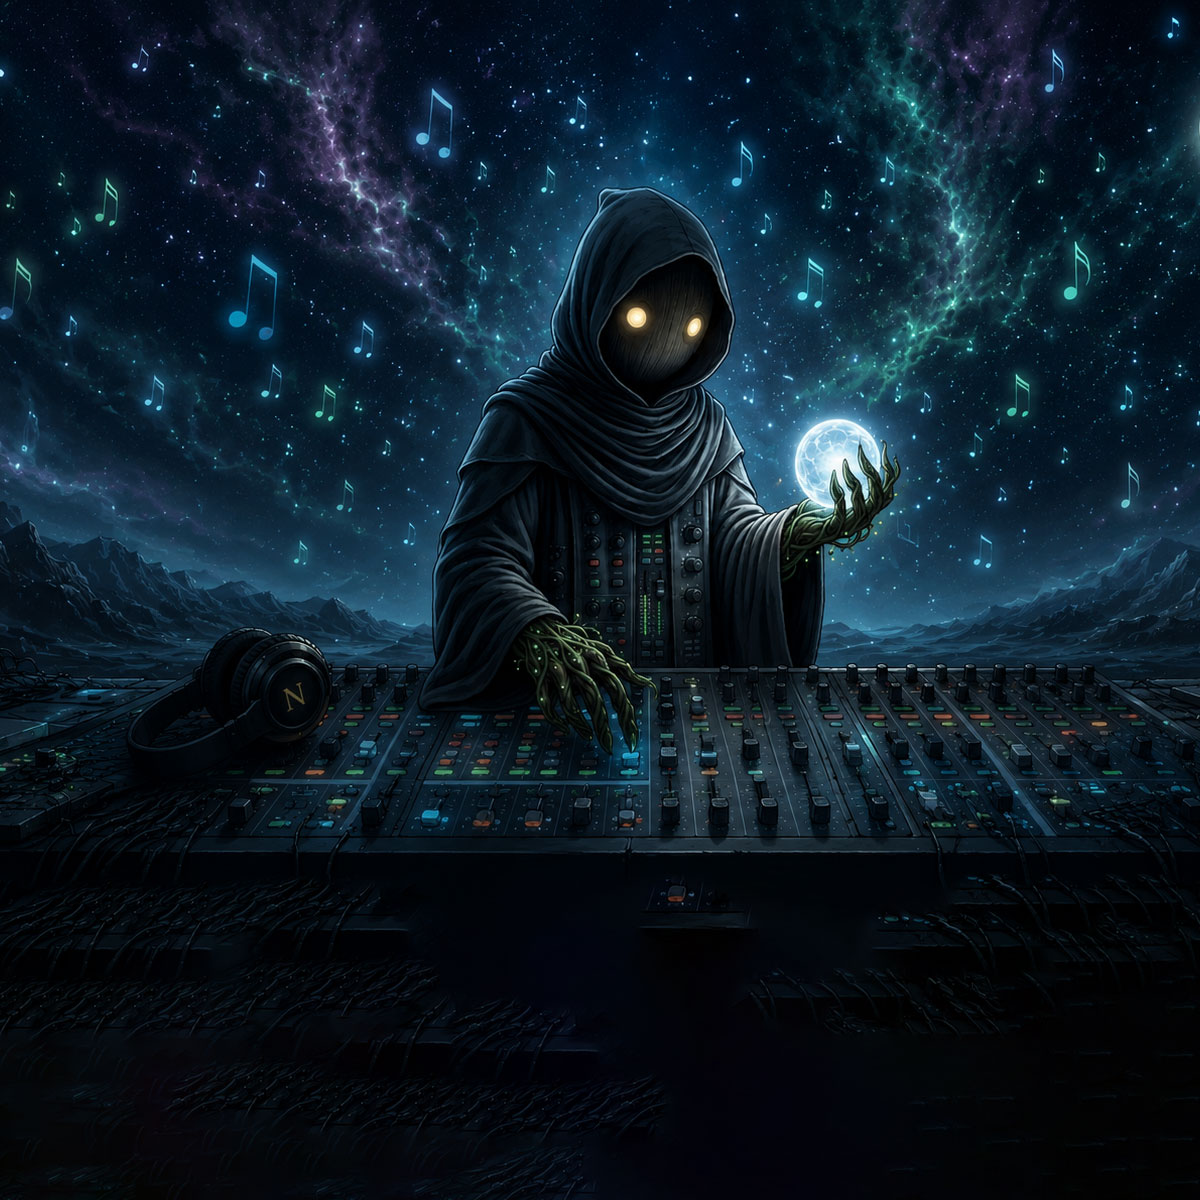
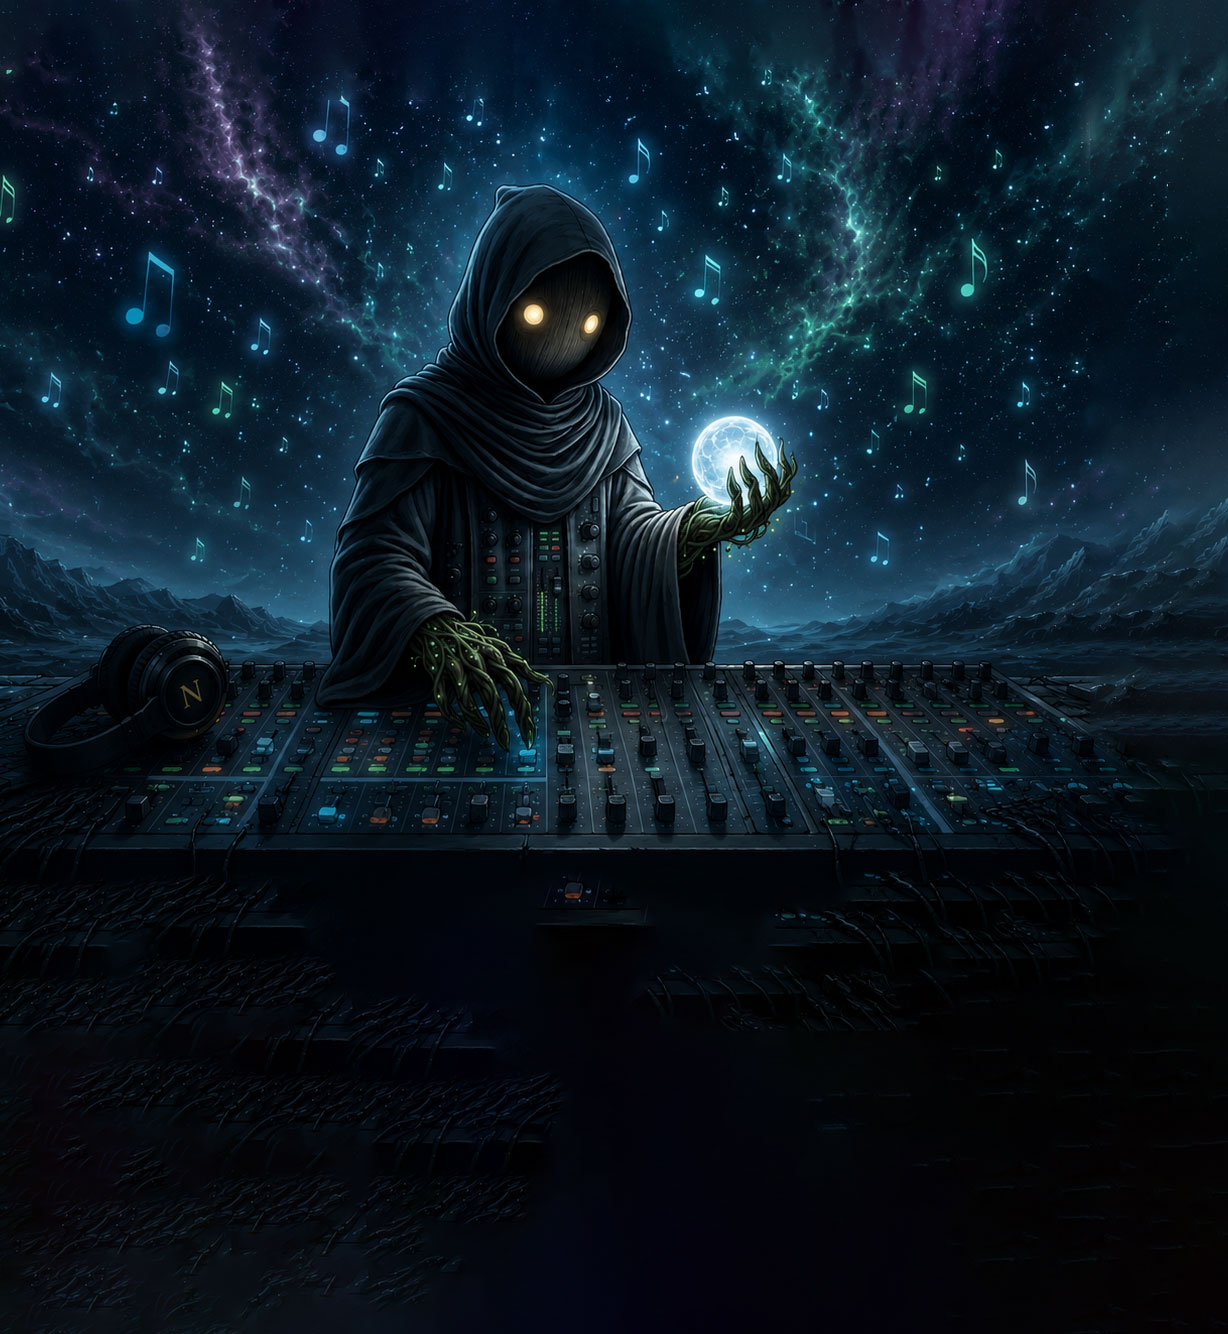
1

diff --git a/shared/css/style.css b/shared/css/style.css
@@ -101,14 +101,35 @@ a {
 }
 
 .hero {
+    position: relative;
     display: grid;
     min-height: 430px;
     align-items: end;
+    overflow: hidden;
     padding: 56px;
     border: 1px solid var(--line);
-    background:
-        linear-gradient(90deg, rgba(16, 20, 18, 0.94), rgba(16, 20, 18, 0.42)),
-        url("/shared/images/main.jpg?v=2026070602") center/cover;
+    background: var(--panel-soft);
+}
+
+.hero::after {
+    position: absolute;
+    inset: 0;
+    z-index: 1;
+    content: "";
+    background: linear-gradient(90deg, rgba(16, 20, 18, 0.94), rgba(16, 20, 18, 0.42));
+    pointer-events: none;
+}
+
+.hero__media {
+    position: absolute;
+    inset: 0;
+    z-index: 0;
+}
+
+.hero__media img {
+    width: 100%;
+    height: 100%;
+    object-fit: cover;
 }
 
 .hero--compact {
@@ -116,6 +137,8 @@ a {
 }
 
 .hero__content {
+    position: relative;
+    z-index: 2;
     max-width: 700px;
 }
 
@@ -383,9 +406,10 @@ img.gallery-image {
     .hero {
         min-height: 360px;
         padding: 32px 22px;
-        background:
-            linear-gradient(0deg, rgba(16, 20, 18, 0.88), rgba(16, 20, 18, 0.38)),
-            url("/shared/images/main-phone.jpg?v=[phone redacted]") center/cover;
+    }
+
+    .hero::after {
+        background: linear-gradient(0deg, rgba(16, 20, 18, 0.88), rgba(16, 20, 18, 0.38));
     }
 
     h1 {
@@ -451,9 +475,10 @@ img.gallery-image {
     .hero {
         min-height: calc(100svh - 156px);
         padding: 26px 18px;
-        background:
-            linear-gradient(0deg, rgba(16, 20, 18, 0.96), rgba(16, 20, 18, 0.48)),
-            url("/shared/images/main-phone.jpg?v=[phone redacted]") center/cover;
+    }
+
+    .hero::after {
+        background: linear-gradient(0deg, rgba(16, 20, 18, 0.96), rgba(16, 20, 18, 0.48));
     }
 
     .hero--compact {

diff --git a/index.html b/index.html
@@ -6,7 +6,7 @@
     <title>NeoAxis | Entertainment Production Company</title>
     <meta name="description" content="NeoAxis is an entertainment production company creating original works, music, stories, and visual IP.">
     <link rel="canonical" href="https://neoaxis.kr/">
-    <link rel="stylesheet" href="/shared/css/style.css?v=2026070602">
+    <link rel="stylesheet" href="/shared/css/style.css?v=2026070604">
 </head>
 <body>
     <div data-include="/shared/header.html"></div>
@@ -14,6 +14,10 @@
 
     <main class="site-main">
         <section class="hero">
+            <picture class="hero__media" aria-hidden="true">
+                <source media="(max-width: 900px)" srcset="/shared/images/main-phone.jpg?v=[phone redacted]">
+                <img src="/shared/images/main.jpg?v=2026070604" alt="">
+            </picture>
             <div class="hero__content">
                 <p class="eyebrow">Entertainment Production Company</p>
                 <h1>NeoAxis</h1>
@@ -41,13 +45,13 @@
                 <a class="poster-card" href="/works/admiral-yi/">
                     <span class="poster-card__poster">Admiral Yi</span>
                     <span class="poster-card__label">Historical</span>
-                    <h3>議곗꽑 ?댁닚??/h3>
+                    <h3>조선 이순신</h3>
                     <p>A historical work prepared as an independent NeoAxis IP.</p>
                 </a>
                 <a class="poster-card" href="/works/reshi/">
                     <span class="poster-card__poster">Reshi</span>
                     <span class="poster-card__label">Sci-Fi</span>
-                    <h3>誘몃옒?꾩궗 ?덉떆</h3>
+                    <h3>미래전사 레시</h3>
                     <p>A future-warrior project that can grow separately from other works.</p>
                 </a>
             </div>

diff --git a/works/admiral-yi/index.html b/works/admiral-yi/index.html
@@ -3,10 +3,10 @@
 <head>
     <meta charset="UTF-8">
     <meta name="viewport" content="width=device-width, initial-scale=1.0">
-    <title>議곗꽑 ?댁닚??| NeoAxis Works</title>
-    <meta name="description" content="議곗꽑 ?댁닚??is an original historical work from NeoAxis.">
+    <title>조선 이순신 | NeoAxis Works</title>
+    <meta name="description" content="조선 이순신 is an original historical work from NeoAxis.">
     <link rel="canonical" href="https://neoaxis.kr/works/admiral-yi/">
-    <link rel="stylesheet" href="/shared/css/style.css?v=2026070602">
+    <link rel="stylesheet" href="/shared/css/style.css?v=2026070604">
 </head>
 <body>
     <div data-include="/shared/header.html"></div>
@@ -15,7 +15,7 @@
     <main class="site-main">
         <header class="page-header">
             <p class="eyebrow">NeoAxis Work</p>
-            <h1>議곗꽑 ?댁닚??/h1>
+            <h1>조선 이순신</h1>
             <p>A historical IP prepared under the NeoAxis works structure.</p>
         </header>
     </main>

diff --git a/works/reshi/index.html b/works/reshi/index.html
@@ -3,10 +3,10 @@
 <head>
     <meta charset="UTF-8">
     <meta name="viewport" content="width=device-width, initial-scale=1.0">
-    <title>誘몃옒?꾩궗 ?덉떆 | NeoAxis Works</title>
-    <meta name="description" content="誘몃옒?꾩궗 ?덉떆 is an original science fiction work from NeoAxis.">
+    <title>미래전사 레시 | NeoAxis Works</title>
+    <meta name="description" content="미래전사 레시 is an original science fiction work from NeoAxis.">
     <link rel="canonical" href="https://neoaxis.kr/works/reshi/">
-    <link rel="stylesheet" href="/shared/css/style.css?v=2026070602">
+    <link rel="stylesheet" href="/shared/css/style.css?v=2026070604">
 </head>
 <body>
     <div data-include="/shared/header.html"></div>
@@ -15,7 +15,7 @@
     <main class="site-main">
         <header class="page-header">
             <p class="eyebrow">NeoAxis Work</p>
-            <h1>誘몃옒?꾩궗 ?덉떆</h1>
+            <h1>미래전사 레시</h1>
             <p>A science fiction IP prepared under the NeoAxis works structure.</p>
         </header>
     </main>

diff --git a/works/index.html b/works/index.html
@@ -6,7 +6,7 @@
     <title>Works | NeoAxis</title>
     <meta name="description" content="Browse original NeoAxis works and intellectual properties.">
     <link rel="canonical" href="https://neoaxis.kr/works/">
-    <link rel="stylesheet" href="/shared/css/style.css?v=2026070602">
+    <link rel="stylesheet" href="/shared/css/style.css?v=2026070604">
 </head>
 <body>
     <div data-include="/shared/header.html"></div>
@@ -29,13 +29,13 @@
             <a class="poster-card" href="/works/admiral-yi/">
                 <span class="poster-card__poster">Admiral Yi</span>
                 <span class="poster-card__label">Historical</span>
-                <h2>議곗꽑 ?댁닚??/h2>
+                <h2>조선 이순신</h2>
                 <p>A historical NeoAxis work.</p>
             </a>
             <a class="poster-card" href="/works/reshi/">
                 <span class="poster-card__poster">Reshi</span>
                 <span class="poster-card__label">Sci-Fi</span>
-                <h2>誘몃옒?꾩궗 ?덉떆</h2>
+                <h2>미래전사 레시</h2>
                 <p>A science fiction NeoAxis work.</p>
             </a>
         </section>

diff --git a/works/love-river/index.html b/works/love-river/index.html
@@ -6,7 +6,7 @@
     <title>LOVE RIVER | NeoAxis Works</title>
     <meta name="description" content="LOVE RIVER is an original NeoAxis work with story chapters, music, and gallery content.">
     <link rel="canonical" href="https://neoaxis.kr/works/love-river/">
-    <link rel="stylesheet" href="/shared/css/style.css?v=2026070602">
+    <link rel="stylesheet" href="/shared/css/style.css?v=2026070604">
 </head>
 <body>
     <div data-include="/shared/header.html"></div>
@@ -14,6 +14,10 @@
 
     <main class="site-main">
         <section class="hero hero--compact">
+            <picture class="hero__media" aria-hidden="true">
+                <source media="(max-width: 900px)" srcset="/shared/images/main-phone.jpg?v=[phone redacted]">
+                <img src="/shared/images/main.jpg?v=2026070604" alt="">
+            </picture>
             <div class="hero__content">
                 <p class="eyebrow">NeoAxis Work</p>
                 <h1>LOVE RIVER</h1>

diff --git a/about/index.html b/about/index.html
@@ -6,7 +6,7 @@
     <title>About | NeoAxis</title>
     <meta name="description" content="About NeoAxis, an entertainment production company creating independent story and music IP.">
     <link rel="canonical" href="https://neoaxis.kr/about/">
-    <link rel="stylesheet" href="/shared/css/style.css?v=2026070602">
+    <link rel="stylesheet" href="/shared/css/style.css?v=2026070604">
 </head>
 <body>
     <div data-include="/shared/header.html"></div>

diff --git a/music/gloomy-nocturne/index.html b/music/gloomy-nocturne/index.html
@@ -6,7 +6,7 @@
     <title>Gloomy Nocturne | NeoAxis Music</title>
     <meta name="description" content="Gloomy Nocturne music project page from NeoAxis Music.">
     <link rel="canonical" href="https://neoaxis.kr/music/gloomy-nocturne/">
-    <link rel="stylesheet" href="/shared/css/style.css?v=2026070602">
+    <link rel="stylesheet" href="/shared/css/style.css?v=2026070604">
 </head>
 <body>
     <div data-include="/shared/header.html"></div>

diff --git a/music/index.html b/music/index.html
@@ -6,7 +6,7 @@
     <title>Music | NeoAxis</title>
     <meta name="description" content="NeoAxis music projects, artists, albums, singles, music videos, and YouTube links.">
     <link rel="canonical" href="https://neoaxis.kr/music/">
-    <link rel="stylesheet" href="/shared/css/style.css?v=2026070602">
+    <link rel="stylesheet" href="/shared/css/style.css?v=2026070604">
 </head>
 <body>
     <div data-include="/shared/header.html"></div>

diff --git a/music/james-axis/index.html b/music/james-axis/index.html
@@ -6,7 +6,7 @@
     <title>James Axis | NeoAxis Music</title>
     <meta name="description" content="James Axis artist page from NeoAxis Music.">
     <link rel="canonical" href="https://neoaxis.kr/music/james-axis/">
-    <link rel="stylesheet" href="/shared/css/style.css?v=2026070602">
+    <link rel="stylesheet" href="/shared/css/style.css?v=2026070604">
 </head>
 <body>
     <div data-include="/shared/header.html"></div>

diff --git a/music/jamie-axis/index.html b/music/jamie-axis/index.html
@@ -6,7 +6,7 @@
     <title>Jamie Axis | NeoAxis Music</title>
     <meta name="description" content="Jamie Axis artist page from NeoAxis Music.">
     <link rel="canonical" href="https://neoaxis.kr/music/jamie-axis/">
-    <link rel="stylesheet" href="/shared/css/style.css?v=2026070602">
+    <link rel="stylesheet" href="/shared/css/style.css?v=2026070604">
 </head>
 <body>
     <div data-include="/shared/header.html"></div>

diff --git a/works/love-river/gallery/index.html b/works/love-river/gallery/index.html
@@ -6,7 +6,7 @@
     <title>LOVE RIVER Gallery | NeoAxis</title>
     <meta name="description" content="Concept art, posters, and still images for LOVE RIVER by NeoAxis.">
     <link rel="canonical" href="https://neoaxis.kr/works/love-river/gallery/">
-    <link rel="stylesheet" href="/shared/css/style.css?v=2026070602">
+    <link rel="stylesheet" href="/shared/css/style.css?v=2026070604">
 </head>
 <body>
     <div data-include="/shared/header.html"></div>